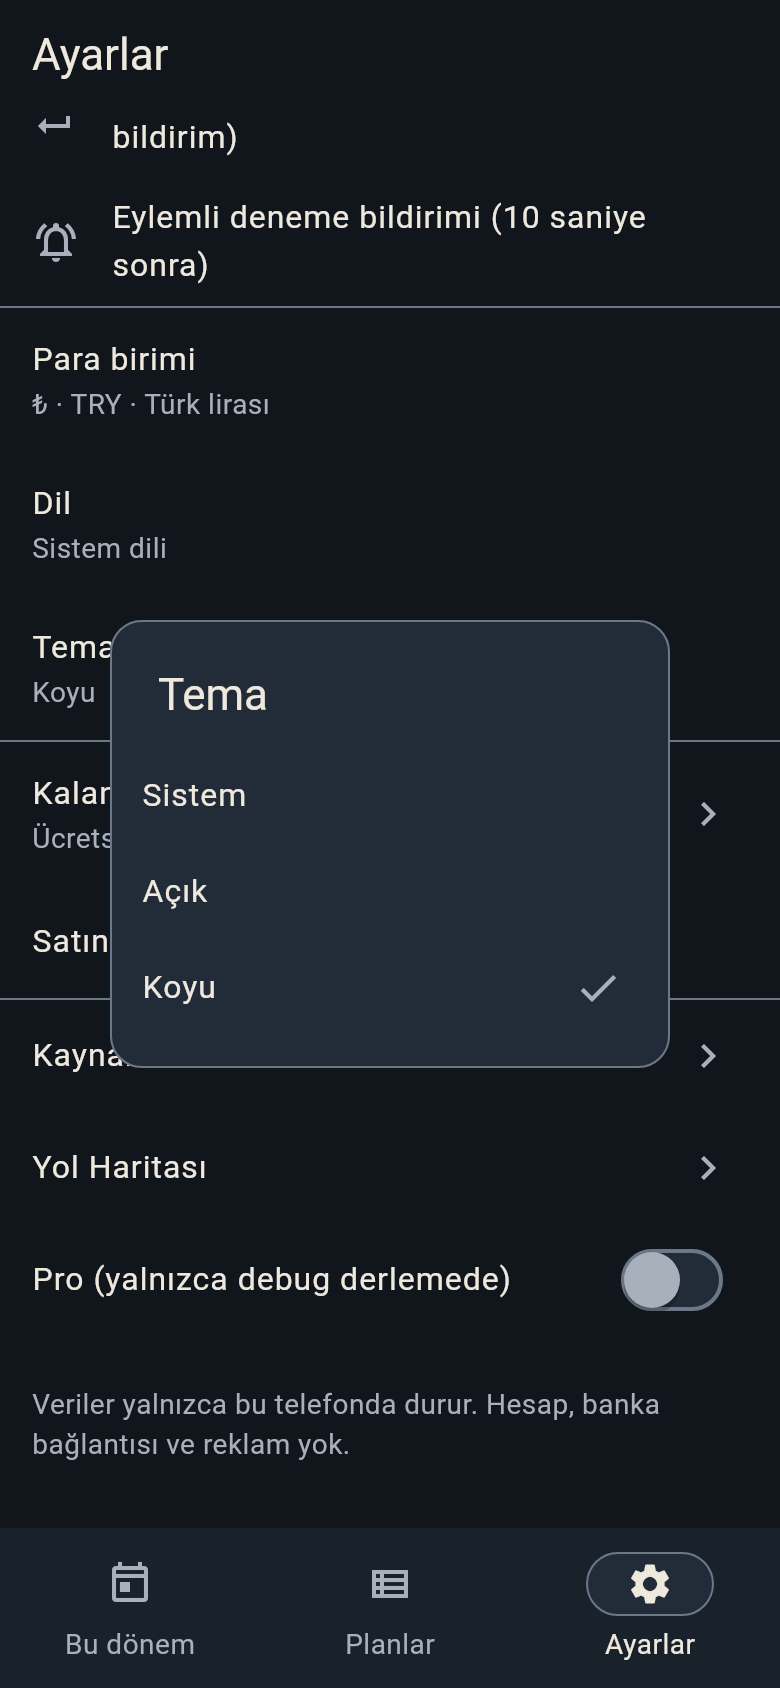
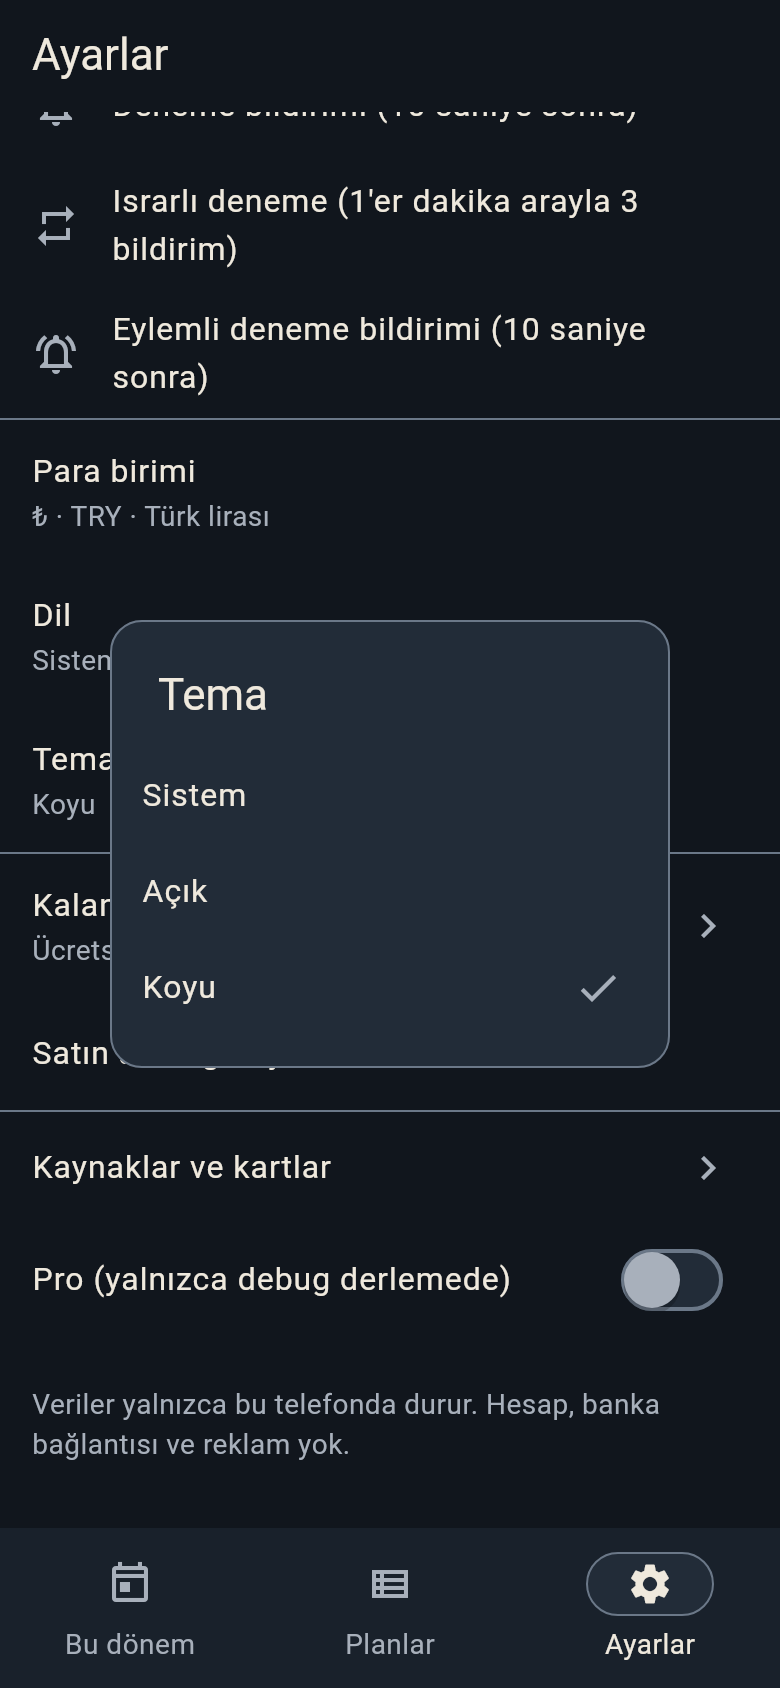
Remove the Roadmap row from Settings (#21)
The Roadmap screen stays in the app but is no longer linked from
Settings. Tests open it through its route; Settings screenshots updated.

Claude-Session: https://claude.ai/code/session_01Cwxe7vfT8Tk9spHw6a4cyT

diff --git a/test/features/roadmap_test.dart b/test/features/roadmap_test.dart
@@ -1,6 +1,8 @@
 import 'dart:io';
 
 import 'package:flutter_test/flutter_test.dart';
+import 'package:kalan/core/routing/router.dart';
+import 'package:kalan/core/routing/routes.dart';
 import 'package:kalan/features/roadmap/roadmap.dart';
 import 'package:material_ui/material_ui.dart';
 
@@ -65,11 +67,11 @@ void main() {
   });
 
   testWidgets('empty roadmap shows one calm sentence', (tester) async {
-    await pumpApp(tester, seed: seedSettings);
-    await openTab(tester, 'Ayarlar');
-    await scrollTo(tester, find.text('Yol Haritası'));
-    await tester.tap(find.text('Yol Haritası'));
-    await tester.pumpAndSettle();
+    await pumpApp(
+      tester,
+      seed: seedSettings,
+      overrides: [initialRouteProvider.overrideWithValue(Routes.roadmap)],
+    );
     expect(find.text('Şu an burada paylaşılacak bir şey yok.'), findsOneWidget);
   });
 
@@ -79,12 +81,9 @@ void main() {
       seed: seedSettings,
       overrides: [
         roadmapSourceProvider.overrideWith((ref) async => docExample()),
+        initialRouteProvider.overrideWithValue(Routes.roadmap),
       ],
     );
-    await openTab(tester, 'Ayarlar');
-    await scrollTo(tester, find.text('Yol Haritası'));
-    await tester.tap(find.text('Yol Haritası'));
-    await tester.pumpAndSettle();
     expect(find.text('Ödeme hatırlatmaları'), findsOneWidget);
     expect(find.text('Dosyaya dışa aktarma'), findsOneWidget);
     expect(find.text('Yapılıyor'), findsOneWidget);
@@ -100,12 +99,9 @@ void main() {
       seed: seedSettings,
       overrides: [
         roadmapSourceProvider.overrideWith((ref) async => docExample()),
+        initialRouteProvider.overrideWithValue(Routes.roadmap),
       ],
     );
-    await openTab(tester, 'Settings');
-    await scrollTo(tester, find.text('Roadmap'));
-    await tester.tap(find.text('Roadmap'));
-    await tester.pumpAndSettle();
     expect(find.text('Payment reminders'), findsOneWidget);
     expect(find.text('In progress'), findsOneWidget);
     expect(find.text('Target version 1.1'), findsOneWidget);
@@ -115,12 +111,20 @@ void main() {
     await pumpApp(
       tester,
       seed: seedSettings,
-      overrides: [roadmapSourceProvider.overrideWith((ref) async => '{')],
+      overrides: [
+        roadmapSourceProvider.overrideWith((ref) async => '{'),
+        initialRouteProvider.overrideWithValue(Routes.roadmap),
+      ],
     );
-    await openTab(tester, 'Ayarlar');
-    await scrollTo(tester, find.text('Yol Haritası'));
-    await tester.tap(find.text('Yol Haritası'));
-    await tester.pumpAndSettle();
     expect(find.text('Yol haritası okunamadı.'), findsOneWidget);
+  });
+
+  testWidgets('Settings has no roadmap row', (tester) async {
+    await pumpApp(tester, seed: seedSettings);
+    await openTab(tester, 'Ayarlar');
+    await scrollTo(tester, find.text('Kaynaklar ve kartlar'));
+    await tester.drag(find.byType(Scrollable).first, const Offset(0, -2000));
+    await tester.pumpAndSettle();
+    expect(find.text('Yol Haritası'), findsNothing);
   });
 }

diff --git a/lib/features/settings/settings_screen.dart b/lib/features/settings/settings_screen.dart
@@ -242,11 +242,6 @@ class SettingsScreen extends ConsumerWidget {
             trailing: const Icon(Icons.chevron_right),
             onTap: () => context.push(Routes.sources),
           ),
-          ListTile(
-            title: Text(l10n.settingsRoadmap),
-            trailing: const Icon(Icons.chevron_right),
-            onTap: () => context.push(Routes.roadmap),
-          ),
           if (kDebugMode)
             SwitchListTile.adaptive(
               key: const ValueKey('debug-pro'),

diff --git a/test/golden/screens_golden_test.dart b/test/golden/screens_golden_test.dart
@@ -284,10 +284,8 @@ void main() {
         await start(
           tester,
           extra: [roadmapSourceProvider.overrideWith((ref) async => example)],
+          route: Routes.roadmap,
         );
-        await openTab(tester, 'Ayarlar');
-        await scrollTo(tester, find.text('Yol Haritası'));
-        await tester.tap(find.text('Yol Haritası'));
         await shoot(tester, '09-roadmap-$theme');
       });
 
